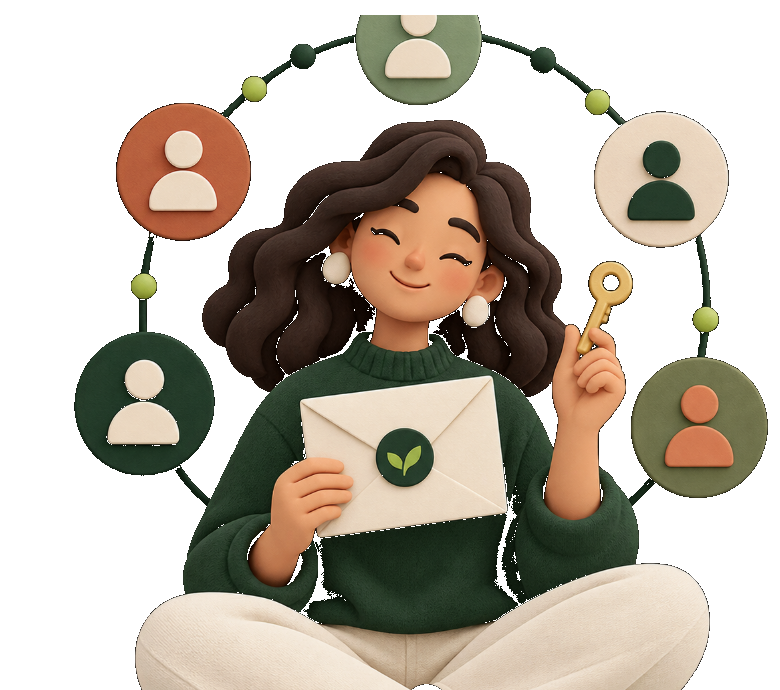
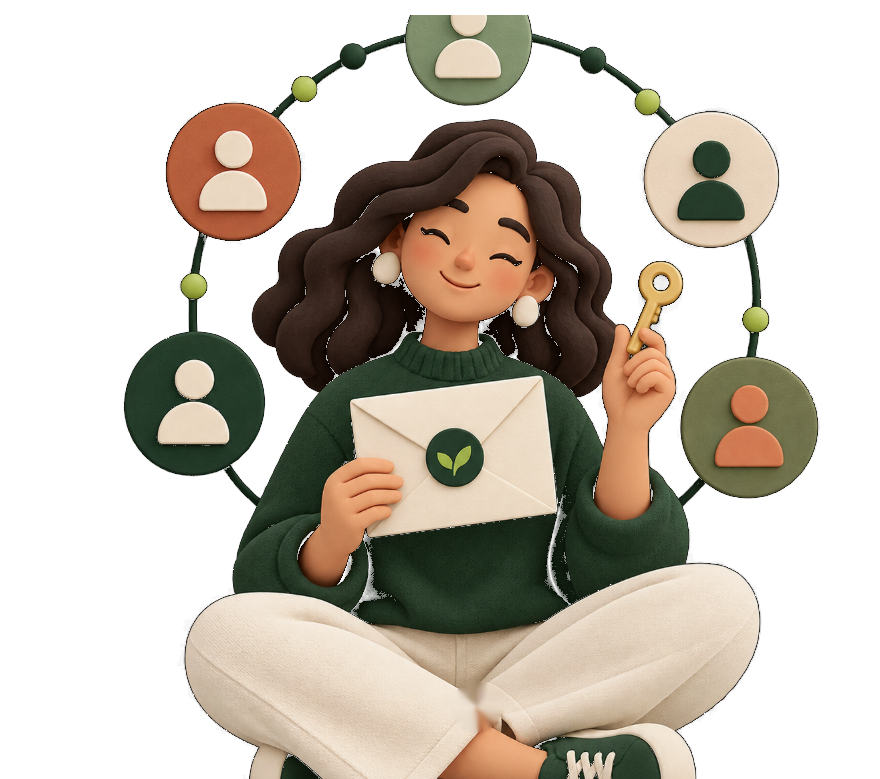
fix(auth): center floating illustration

diff --git a/frontend/src/app/(auth)/_components/auth-flow.tsx b/frontend/src/app/(auth)/_components/auth-flow.tsx
@@ -110,8 +110,8 @@ export function AuthFlow({ initialMode }: { initialMode: Mode }) {
       <main className="flex min-h-dvh items-center justify-center px-4 py-6 sm:px-8 lg:h-full lg:min-h-0 lg:overflow-hidden lg:py-6">
         <div className="w-full max-w-md">
           <BrandLink mobile />
-          <div className="illustration-surface mb-5 h-52 overflow-hidden rounded-2xl border border-border/70 lg:hidden" aria-hidden="true">
-            <Image src="/illustrations/kairos-auth-clay.png" alt="" width={780} height={690} className="h-full w-full object-cover object-[50%_35%]" priority />
+          <div className="mb-5 flex justify-center lg:hidden" aria-hidden="true">
+            <Image src="/illustrations/kairos-auth-clay.png" alt="" width={880} height={779} className="h-auto w-full max-w-[22rem] object-contain" priority />
           </div>
           <ClerkAuthPanel mode={mode} reduceMotion={!!reduceMotion} onModeChange={(nextMode) => router.replace(`/auth?mode=${nextMode}`)} />
         </div>
@@ -188,10 +188,10 @@ function ClerkAuthPanel({
 
 function HeroPanel({ mode, copy }: { mode: Mode; copy: typeof heroCopy[Mode] }) {
   return (
-    <aside className="relative hidden overflow-hidden bg-hero px-10 py-8 text-hero-foreground lg:flex lg:h-full lg:flex-col lg:justify-between xl:px-16">
+    <aside className="illustration-surface relative hidden overflow-hidden bg-hero px-10 py-8 text-hero-foreground lg:flex lg:h-full lg:flex-col lg:justify-between xl:px-16">
       <div className="absolute -right-24 -top-24 h-72 w-72 rounded-full border-[36px] border-hero-accent/30" aria-hidden="true" />
-      <div className="auth-art-float illustration-surface pointer-events-none absolute bottom-0 right-4 hidden h-[19rem] w-[21rem] overflow-hidden rounded-[2rem] border border-hero-border/20 xl:block 2xl:h-[22rem] 2xl:w-[24rem]" aria-hidden="true">
-        <Image src="/illustrations/kairos-auth-clay.png" alt="" width={780} height={690} className="h-full w-full object-contain object-bottom" priority />
+      <div className="pointer-events-none absolute right-0 top-1/2 hidden w-[48%] -translate-y-1/2 lg:block" aria-hidden="true">
+        <Image src="/illustrations/kairos-auth-clay.png" alt="" width={880} height={779} className="auth-art-float h-auto w-full object-contain" priority />
       </div>
       <AnimatePresence mode="wait">
         <motion.div
@@ -203,7 +203,7 @@ function HeroPanel({ mode, copy }: { mode: Mode; copy: typeof heroCopy[Mode] }) 
           className="relative space-y-8"
         >
           <BrandLink />
-          <div className="max-w-xl space-y-4">
+          <div className="max-w-[48%] space-y-4">
             <p className="text-xs font-semibold uppercase tracking-[0.22em] text-hero-accent">{copy.eyebrow}</p>
             <h1 className="font-display text-4xl font-medium leading-[1.05] tracking-tight xl:text-5xl">{copy.title}</h1>
             <p className="max-w-md text-sm leading-6 text-hero-muted">{copy.body}</p>
@@ -212,7 +212,7 @@ function HeroPanel({ mode, copy }: { mode: Mode; copy: typeof heroCopy[Mode] }) 
       </AnimatePresence>
 
       {copy.features > 0 && (
-        <div className="relative grid max-w-md gap-3 sm:grid-cols-3">
+        <div className="relative grid max-w-[51%] gap-3 sm:grid-cols-3">
           {features.slice(0, copy.features).map((feature, i) => (
             <motion.div
               key={feature.title}
